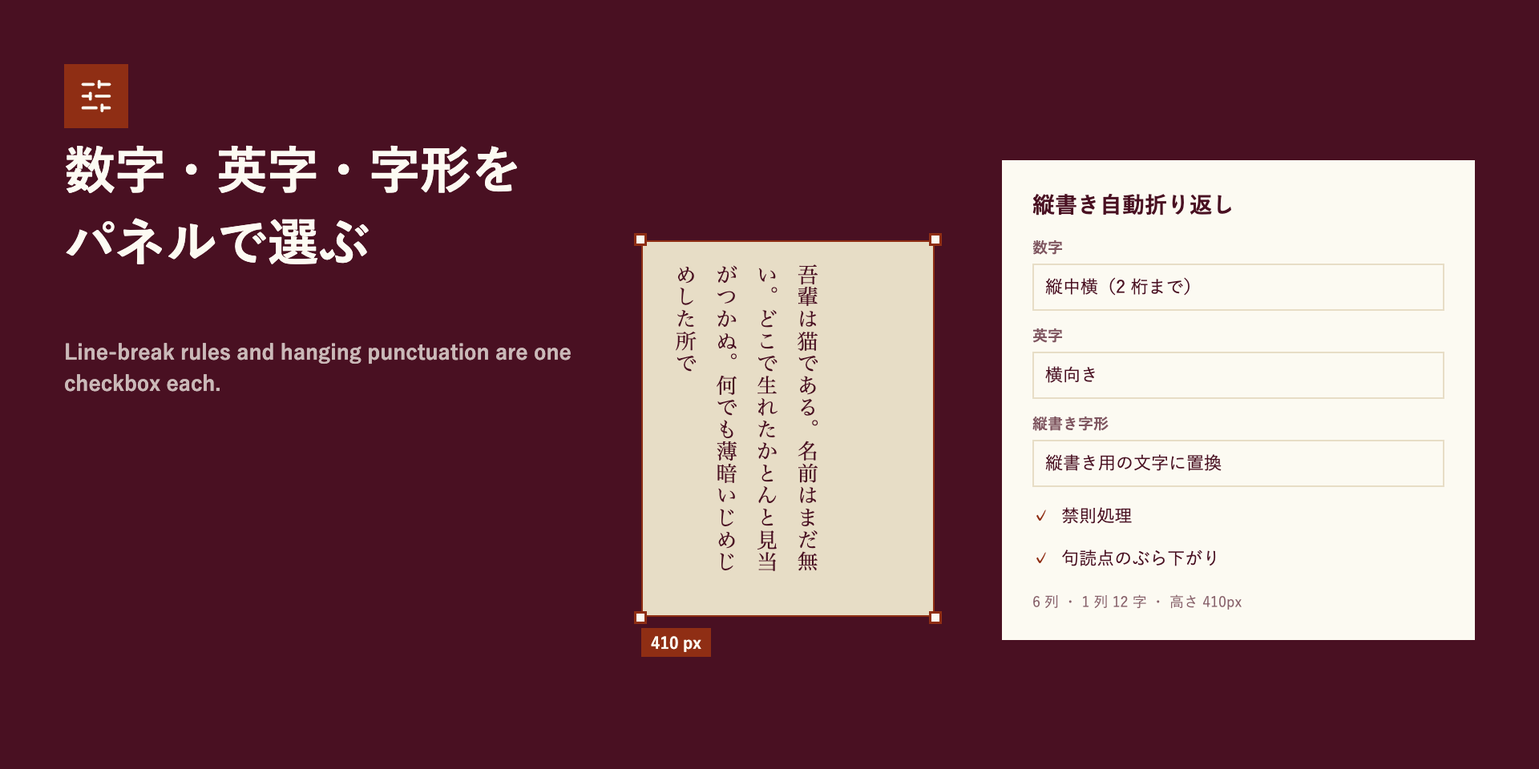
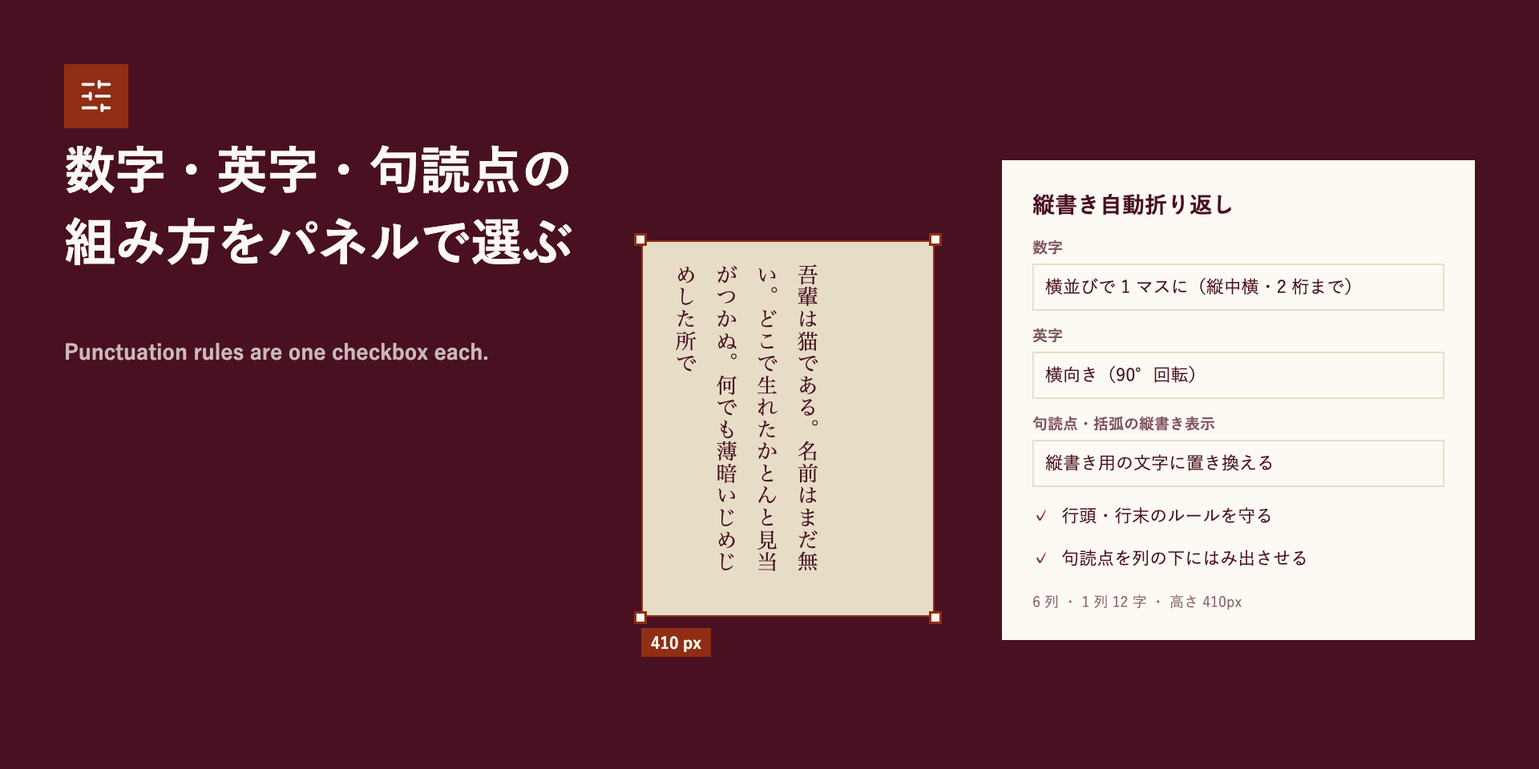
Plain-language wording in the panel, docs and carousel; bilingual error messages

diff --git a/src/ui/main.ts b/src/ui/main.ts
@@ -1,6 +1,7 @@
 // Plugin panel. Plain DOM, no framework.
 
 import type { FormsMode, LatinMode, NumeralMode, Settings } from '../core/types.ts';
+import { pick } from '../messages.ts';
 import type { ApplyPatch, BlockInfo, SelectionState, ToCode, ToUI } from '../protocol.ts';
 
 // Panel language: the saved choice wins, otherwise follow the app language.
@@ -9,7 +10,7 @@ let ja = (navigator.language || 'en').toLowerCase().startsWith('ja');
 const T = {
   title: ['縦書き自動折り返し', 'Vertical Japanese Text'],
   auto: ['自動で折り返す', 'Auto reflow'],
-  watching: ['監視中のブロック', 'Blocks watched'],
+  watching: ['追従中のブロック', 'Blocks in sync'],
   lead: [
     '縦書きブロックの高さを動かすと、列が自動で折り返されます。',
     'Drag the height of a vertical block and its columns reflow.',
@@ -31,13 +32,29 @@ const T = {
   createBtn: ['作成', 'Create'],
   source: ['本文（段落は空行で区切る）', 'Text (separate paragraphs with a blank line)'],
   size: ['文字サイズ', 'Font size'],
-  advance: ['字送り', 'Character pitch'],
-  pitch: ['行送り（列の幅）', 'Column pitch'],
+  advance: ['字送り（文字の間隔）', 'Character pitch'],
+  advanceTip: [
+    '字送り：1 字から次の字までの距離（文字サイズを含む）。',
+    'Distance from one character to the next (includes the character size).',
+  ],
+  pitch: ['行送り（列の間隔）', 'Column pitch'],
+  pitchTip: [
+    '行送り：1 列から次の列までの距離。',
+    'Distance from one column to the next.',
+  ],
   numerals: ['数字', 'Numerals'],
-  latin: ['英字', 'Latin'],
-  forms: ['縦書き字形', 'Vertical forms'],
-  kinsoku: ['禁則処理', 'Line-break rules (kinsoku)'],
-  hang: ['句読点のぶら下がり', 'Hang 、。 past the limit'],
+  latin: ['英字', 'Latin letters (A–Z)'],
+  forms: ['句読点・括弧の縦書き表示', 'Punctuation and brackets'],
+  kinsoku: ['行頭・行末のルールを守る', 'Keep punctuation off column edges'],
+  kinsokuTip: [
+    '禁則処理：、。や閉じ括弧を列の先頭に、開き括弧を列の末尾に置かない。',
+    'Keeps 、。 and closing brackets off the start of a column, and opening brackets off the end.',
+  ],
+  hang: ['句読点を列の下にはみ出させる', 'Let 、。 hang past the column end'],
+  hangTip: [
+    'ぶら下がり：列の末尾にくる、。を、列の下の余白に出して、字詰めを保つ。',
+    'Hanging punctuation: a 、。 at the end of a column goes into the margin below it.',
+  ],
   stats: ['{c} 列 ・ 1 列 {n} 字 ・ 高さ {h}px', '{c} columns · {n} per column · height {h}px'],
   unblock: ['ブロックを解除（普通のレイヤーに戻す）', 'Release block (back to plain layers)'],
   fontNote: ['フォント', 'Font'],
@@ -52,20 +69,20 @@ const T = {
 } as const;
 
 const NUMERALS: [NumeralMode, string, string][] = [
-  ['tcy', '縦中横（2 桁まで）', 'Horizontal in vertical (up to 2 digits)'],
-  ['sideways', '横向き', 'Sideways'],
-  ['kanji', '漢数字（二〇二四）', 'Kanji, digit by digit (二〇二四)'],
-  ['kanji-place', '漢数字（二千二十四）', 'Kanji, place values (二千二十四)'],
-  ['upright', '縦に積む', 'Stacked upright'],
+  ['tcy', '横並びで 1 マスに（縦中横・2 桁まで）', 'Side by side in one cell (up to 2 digits)'],
+  ['sideways', '横向き（90°回転）', 'Rotated 90°'],
+  ['kanji', '漢数字（二〇二四）', 'Kanji numerals (二〇二四)'],
+  ['kanji-place', '漢数字（二千二十四）', 'Kanji numerals with place values (二千二十四)'],
+  ['upright', '1 字ずつ縦に積む', 'One digit per line'],
 ];
 const LATIN: [LatinMode, string, string][] = [
-  ['sideways', '横向き', 'Sideways'],
-  ['tcy', '縦中横（2 字まで）', 'Horizontal in vertical (up to 2 letters)'],
-  ['upright', '縦に積む', 'Stacked upright'],
+  ['sideways', '横向き（90°回転）', 'Rotated 90°'],
+  ['tcy', '横並びで 1 マスに（縦中横・2 字まで）', 'Side by side in one cell (up to 2 letters)'],
+  ['upright', '1 字ずつ縦に積む', 'One letter per line'],
 ];
 const FORMS: [FormsMode, string, string][] = [
-  ['unicode', '縦書き用の文字に置換', 'Unicode vertical forms'],
-  ['rotate', '回転（どのフォントでも）', 'Rotated cells (any font)'],
+  ['unicode', '縦書き用の文字に置き換える', 'Use vertical-form characters'],
+  ['rotate', '回転で代用（どのフォントでも）', 'Rotate instead (works with any font)'],
   ['none', 'そのまま', 'As typed'],
 ];
 
@@ -129,16 +146,16 @@ function blockCard(i: BlockInfo): string {
       <p class="stats" id="stats"></p>
       <div class="row">
         <div class="field"><label class="t">${t('size')}</label><input type="number" id="fontSize" min="1" step="0.5" value="${num2(i.fontSize)}"></div>
-        <div class="field"><label class="t">${t('advance')}</label><input type="number" id="advance" min="1" step="0.1" value="${num2(i.advance)}"></div>
-        <div class="field"><label class="t">${t('pitch')}</label><input type="number" id="pitch" min="1" step="0.1" value="${num2(i.pitch)}"></div>
+        <div class="field"><label class="t" title="${esc(t('advanceTip'))}">${t('advance')}</label><input type="number" id="advance" min="1" step="0.1" value="${num2(i.advance)}"></div>
+        <div class="field"><label class="t" title="${esc(t('pitchTip'))}">${t('pitch')}</label><input type="number" id="pitch" min="1" step="0.1" value="${num2(i.pitch)}"></div>
         <div class="field"><label class="t">${t('fontNote')}</label><input type="text" disabled value="${esc(i.fontFamily)} ${esc(i.fontStyle)}" style="width:100%;font:inherit;padding:5px 6px;border:0;background:var(--figma-color-bg-secondary,#f5f5f5);color:inherit;border-radius:4px"></div>
         <div class="field full"><label class="t">${t('numerals')}</label><select id="numerals">${options(NUMERALS, s.numerals)}</select></div>
         <div class="field full"><label class="t">${t('latin')}</label><select id="latin">${options(LATIN, s.latin)}</select></div>
         <div class="field full"><label class="t">${t('forms')}</label><select id="forms">${options(FORMS, s.forms)}</select></div>
       </div>
       <div class="checks">
-        <label><input type="checkbox" id="kinsoku" ${s.kinsoku ? 'checked' : ''}/> ${t('kinsoku')}</label>
-        <label><input type="checkbox" id="hang" ${s.hang ? 'checked' : ''}/> ${t('hang')}</label>
+        <label title="${esc(t('kinsokuTip'))}"><input type="checkbox" id="kinsoku" ${s.kinsoku ? 'checked' : ''}/> ${t('kinsoku')}</label>
+        <label title="${esc(t('hangTip'))}"><input type="checkbox" id="hang" ${s.hang ? 'checked' : ''}/> ${t('hang')}</label>
       </div>
       <p class="hint">${t('hintBlock')}</p>
     </div>
@@ -223,7 +240,7 @@ function bodyFor(s: SelectionState): string {
         </div>
         ${createCard()}`;
     case 'unsupported':
-      return `<div class="card"><p style="margin:0">${esc(s.reason)}</p></div>${createCard()}`;
+      return `<div class="card"><p style="margin:0">${esc(pick(s.reason, ja))}</p></div>${createCard()}`;
     default:
       return `<div class="card"><p style="margin:0">${t('none')}</p></div>${createCard()}`;
   }
@@ -259,7 +276,7 @@ let toastTimer: number | undefined;
 function toast(level: 'info' | 'error', message: string): void {
   const el = document.getElementById('toast');
   if (!el) return;
-  el.innerHTML = `<div class="toast ${level}">${esc(message)}</div>`;
+  el.innerHTML = `<div class="toast ${level}">${esc(pick(message, ja))}</div>`;
   window.clearTimeout(toastTimer);
   toastTimer = window.setTimeout(() => (el.innerHTML = ''), 4000);
 }

diff --git a/src/figma/convert.ts b/src/figma/convert.ts
@@ -1,6 +1,7 @@
 // Turn existing nodes into blocks, create new blocks, and describe the selection.
 
 import { capacityFor } from '../core/typeset.ts';
+import { bi } from '../messages.ts';
 import { fromVerticalForm } from '../core/vertical-forms.ts';
 import type { BlockInfo, SelectionState } from '../protocol.ts';
 import {
@@ -108,7 +109,12 @@ export function adoptsAsFrame(node: SceneNode): node is FrameNode {
 export async function convertNode(store: Store, node: SceneNode): Promise<FrameNode> {
   if (node.type === 'TEXT') return convertText(store, node);
   if (adoptsAsFrame(node)) return convertFrame(store, node);
-  throw new Error('縦書きブロックにできるのは、テキスト、または横向き Auto Layout のフレームです。');
+  throw new Error(
+    bi(
+      '縦書きブロックにできるのは、テキスト、または横向き Auto Layout のフレームです。',
+      'Only a text layer or a horizontal auto-layout frame can become a vertical block.',
+    ),
+  );
 }
 
 async function convertText(store: Store, t: TextNode): Promise<FrameNode> {
@@ -123,7 +129,7 @@ async function convertText(store: Store, t: TextNode): Promise<FrameNode> {
     pitch: lh ?? base.pitch,
   });
   const parent = t.parent as (BaseNode & ChildrenMixin) | null;
-  if (!parent) throw new Error('親が見つかりません。');
+  if (!parent) throw new Error(bi('親が見つかりません。', 'The parent layer was not found.'));
   const index = parent.children.indexOf(t);
   const frame = figma.createFrame();
   frame.name = `縦書き: ${t.characters.replace(/\s+/g, ' ').slice(0, 12)}`;
@@ -171,7 +177,7 @@ export async function createBlock(
   const base = defaultConfig(style?.fontSize ? { fontSize: style.fontSize } : {});
   const cfg = await loadAvailable({ ...base, ...(style ?? {}), paragraphs });
   const frame = figma.createFrame();
-  frame.name = '縦書き';
+  frame.name = 'Vertical text（縦書き）';
   frame.fills = [];
   frame.clipsContent = false;
   figma.currentPage.appendChild(frame);
@@ -212,7 +218,7 @@ export function blockInfo(store: Store, frame: FrameNode): BlockInfo | null {
 export function describeSelection(store: Store): SelectionState {
   const sel = figma.currentPage.selection;
   if (sel.length === 0) return { kind: 'none' };
-  if (sel.length > 1) return { kind: 'unsupported', reason: '1 つだけ選んでください。' };
+  if (sel.length > 1) return { kind: 'unsupported', reason: bi('1 つだけ選んでください。', 'Select exactly one layer.') };
   const node = sel[0];
   const block = findBlock(store, node);
   if (block) {
@@ -223,6 +229,9 @@ export function describeSelection(store: Store): SelectionState {
   if (adoptsAsFrame(node)) return { kind: 'convertible', what: 'frame', name: node.name };
   return {
     kind: 'unsupported',
-    reason: 'テキスト、または横向き Auto Layout のフレームを選んでください。',
+    reason: bi(
+      'テキスト、または横向き Auto Layout のフレームを選んでください。',
+      'Select a text layer or a horizontal auto-layout frame.',
+    ),
   };
 }

diff --git a/assets/carousel3.html b/assets/carousel3.html
@@ -7,5 +7,5 @@
 <div class="label"><svg width="44" height="44" viewBox="0 0 24 24" fill="none" stroke="#FCFAF2" stroke-width="2" stroke-linecap="round" stroke-linejoin="round"><line x1="4" x2="20" y1="9" y2="9"/><line x1="4" x2="20" y1="15" y2="15"/><line x1="10" x2="8" y1="3" y2="21"/><line x1="16" x2="14" y1="3" y2="21"/></svg></div>
 <div class="title">Choose how<br>numerals are set</div>
 <div class="sub">同じ文を、4 通りの組み方で。</div>
-<div class="card" style="left:800px;top:230px;width:150px;height:470px"><div class="t" style="height:410px;font-size:30px;"><span style="text-orientation:upright">2024</span>年<span style="text-combine-upright:all">10</span>月、<span style="text-combine-upright:all">12</span>日</div><span class="cap" style="color:#FCFAF2">Horizontal in vertical</span></div><div class="card" style="left:1080px;top:230px;width:150px;height:470px"><div class="t" style="height:410px;font-size:30px;">2024年10月、12日</div><span class="cap" style="color:#FCFAF2">Sideways</span></div><div class="card" style="left:1360px;top:230px;width:150px;height:470px"><div class="t" style="height:410px;font-size:30px;">二〇二四年十月、十二日</div><span class="cap" style="color:#FCFAF2">Kanji</span></div><div class="card" style="left:1640px;top:230px;width:150px;height:470px"><div class="t" style="height:410px;font-size:30px;text-orientation:upright;">2024年10月、12日</div><span class="cap" style="color:#FCFAF2">Stacked upright</span></div>
+<div class="card" style="left:800px;top:230px;width:150px;height:470px"><div class="t" style="height:410px;font-size:30px;"><span style="text-orientation:upright">2024</span>年<span style="text-combine-upright:all">10</span>月、<span style="text-combine-upright:all">12</span>日</div><span class="cap" style="color:#FCFAF2">Side by side in one cell</span></div><div class="card" style="left:1080px;top:230px;width:150px;height:470px"><div class="t" style="height:410px;font-size:30px;">2024年10月、12日</div><span class="cap" style="color:#FCFAF2">Rotated 90°</span></div><div class="card" style="left:1360px;top:230px;width:150px;height:470px"><div class="t" style="height:410px;font-size:30px;">二〇二四年十月、十二日</div><span class="cap" style="color:#FCFAF2">Kanji numerals</span></div><div class="card" style="left:1640px;top:230px;width:150px;height:470px"><div class="t" style="height:410px;font-size:30px;text-orientation:upright;">2024年10月、12日</div><span class="cap" style="color:#FCFAF2">One digit per line</span></div>
 </body></html>

diff --git a/assets/carousel3-ja.html b/assets/carousel3-ja.html
@@ -7,5 +7,5 @@
 <div class="label"><svg width="44" height="44" viewBox="0 0 24 24" fill="none" stroke="#FCFAF2" stroke-width="2" stroke-linecap="round" stroke-linejoin="round"><line x1="4" x2="20" y1="9" y2="9"/><line x1="4" x2="20" y1="15" y2="15"/><line x1="10" x2="8" y1="3" y2="21"/><line x1="16" x2="14" y1="3" y2="21"/></svg></div>
 <div class="title">数字の組み方を<br>選べる</div>
 <div class="sub">The same sentence, four ways.</div>
-<div class="card" style="left:800px;top:230px;width:150px;height:470px"><div class="t" style="height:410px;font-size:30px;"><span style="text-orientation:upright">2024</span>年<span style="text-combine-upright:all">10</span>月、<span style="text-combine-upright:all">12</span>日</div><span class="cap" style="color:#FCFAF2">縦中横</span></div><div class="card" style="left:1080px;top:230px;width:150px;height:470px"><div class="t" style="height:410px;font-size:30px;">2024年10月、12日</div><span class="cap" style="color:#FCFAF2">横向き</span></div><div class="card" style="left:1360px;top:230px;width:150px;height:470px"><div class="t" style="height:410px;font-size:30px;">二〇二四年十月、十二日</div><span class="cap" style="color:#FCFAF2">漢数字</span></div><div class="card" style="left:1640px;top:230px;width:150px;height:470px"><div class="t" style="height:410px;font-size:30px;text-orientation:upright;">2024年10月、12日</div><span class="cap" style="color:#FCFAF2">縦に積む</span></div>
+<div class="card" style="left:800px;top:230px;width:150px;height:470px"><div class="t" style="height:410px;font-size:30px;"><span style="text-orientation:upright">2024</span>年<span style="text-combine-upright:all">10</span>月、<span style="text-combine-upright:all">12</span>日</div><span class="cap" style="color:#FCFAF2">横並びで 1 マスに</span></div><div class="card" style="left:1080px;top:230px;width:150px;height:470px"><div class="t" style="height:410px;font-size:30px;">2024年10月、12日</div><span class="cap" style="color:#FCFAF2">横向き（90°回転）</span></div><div class="card" style="left:1360px;top:230px;width:150px;height:470px"><div class="t" style="height:410px;font-size:30px;">二〇二四年十月、十二日</div><span class="cap" style="color:#FCFAF2">漢数字</span></div><div class="card" style="left:1640px;top:230px;width:150px;height:470px"><div class="t" style="height:410px;font-size:30px;text-orientation:upright;">2024年10月、12日</div><span class="cap" style="color:#FCFAF2">1 字ずつ縦に積む</span></div>
 </body></html>

diff --git a/assets/carousel2-ja.html b/assets/carousel2-ja.html
@@ -10,12 +10,12 @@
 .panel .st { margin-top: 24px; font-size: 18px; opacity: .65; font-weight: 400; }</style></head>
 <body>
 <div class="label"><svg width="44" height="44" viewBox="0 0 24 24" fill="none" stroke="#FCFAF2" stroke-width="2" stroke-linecap="round" stroke-linejoin="round"><line x1="21" x2="14" y1="4" y2="4"/><line x1="10" x2="3" y1="4" y2="4"/><line x1="21" x2="12" y1="12" y2="12"/><line x1="8" x2="3" y1="12" y2="12"/><line x1="21" x2="16" y1="20" y2="20"/><line x1="12" x2="3" y1="20" y2="20"/><line x1="14" x2="14" y1="2" y2="6"/><line x1="8" x2="8" y1="10" y2="14"/><line x1="16" x2="16" y1="18" y2="22"/></svg></div>
-<div class="title">数字・英字・字形を<br>パネルで選ぶ</div>
-<div class="sub">Line-break rules and hanging punctuation are one checkbox each.</div>
+<div class="title">数字・英字・句読点の<br>組み方をパネルで選ぶ</div>
+<div class="sub">Punctuation rules are one checkbox each.</div>
 <div class="card" style="left:800px;top:300px;width:366px;height:470px"><div class="t" style="height:410px">吾輩は猫である。名前はまだ無い。どこで生れたかとんと見当がつかぬ。何でも薄暗いじめじめした所で</div><i class="h a"></i><i class="h b"></i><i class="h c"></i><i class="h d"></i><span class="chip">410 px</span></div><div class="panel"><div class="pt">縦書き自動折り返し</div>
-<div class="lab">数字</div><div class="sel">縦中横（2 桁まで）</div>
-<div class="lab">英字</div><div class="sel">横向き</div>
-<div class="lab">縦書き字形</div><div class="sel">縦書き用の文字に置換</div>
-<div class="chk"><b>✓</b> 禁則処理</div><div class="chk"><b>✓</b> 句読点のぶら下がり</div>
+<div class="lab">数字</div><div class="sel">横並びで 1 マスに（縦中横・2 桁まで）</div>
+<div class="lab">英字</div><div class="sel">横向き（90°回転）</div>
+<div class="lab">句読点・括弧の縦書き表示</div><div class="sel">縦書き用の文字に置き換える</div>
+<div class="chk"><b>✓</b> 行頭・行末のルールを守る</div><div class="chk"><b>✓</b> 句読点を列の下にはみ出させる</div>
 <div class="st">6 列 ・ 1 列 12 字 ・ 高さ 410px</div></div>
 </body></html>

diff --git a/assets/carousel2.html b/assets/carousel2.html
@@ -10,12 +10,12 @@
 .panel .st { margin-top: 24px; font-size: 18px; opacity: .65; font-weight: 400; }</style></head>
 <body>
 <div class="label"><svg width="44" height="44" viewBox="0 0 24 24" fill="none" stroke="#FCFAF2" stroke-width="2" stroke-linecap="round" stroke-linejoin="round"><line x1="21" x2="14" y1="4" y2="4"/><line x1="10" x2="3" y1="4" y2="4"/><line x1="21" x2="12" y1="12" y2="12"/><line x1="8" x2="3" y1="12" y2="12"/><line x1="21" x2="16" y1="20" y2="20"/><line x1="12" x2="3" y1="20" y2="20"/><line x1="14" x2="14" y1="2" y2="6"/><line x1="8" x2="8" y1="10" y2="14"/><line x1="16" x2="16" y1="18" y2="22"/></svg></div>
-<div class="title">Set numerals, Latin<br>and vertical forms</div>
-<div class="sub">禁則処理と句読点のぶら下がりも、チェックひとつです。</div>
+<div class="title">Set digits, letters<br>and punctuation</div>
+<div class="sub">句読点のルールも、チェックひとつです。</div>
 <div class="card" style="left:800px;top:300px;width:366px;height:470px"><div class="t" style="height:410px">吾輩は猫である。名前はまだ無い。どこで生れたかとんと見当がつかぬ。何でも薄暗いじめじめした所で</div><i class="h a"></i><i class="h b"></i><i class="h c"></i><i class="h d"></i><span class="chip">410 px</span></div><div class="panel"><div class="pt">Vertical Japanese Text</div>
-<div class="lab">Numerals</div><div class="sel">Horizontal in vertical (up to 2 digits)</div>
-<div class="lab">Latin</div><div class="sel">Sideways</div>
-<div class="lab">Vertical forms</div><div class="sel">Unicode vertical forms</div>
-<div class="chk"><b>✓</b> Line-break rules (kinsoku)</div><div class="chk"><b>✓</b> Hang 、。 past the limit</div>
+<div class="lab">Numerals</div><div class="sel">Side by side in one cell (up to 2 digits)</div>
+<div class="lab">Latin</div><div class="sel">Rotated 90°</div>
+<div class="lab">Punctuation and brackets</div><div class="sel">Use vertical-form characters</div>
+<div class="chk"><b>✓</b> Keep punctuation off column edges</div><div class="chk"><b>✓</b> Let 、。 hang past the column end</div>
 <div class="st">6 columns · 12 per column · height 410px</div></div>
 </body></html>

diff --git a/src/figma/watch.ts b/src/figma/watch.ts
@@ -4,6 +4,7 @@
 // reaction is idempotent: a re-render is skipped when the source, settings and
 // frame height produce the same signature as the last render.
 
+import { bi } from '../messages.ts';
 import { reconcile, type CurrentColumn, type CurrentNode, type NodeKind } from '../core/model.ts';
 import { KEY_CONFIG, findBlock, readConfig, readModel, writeConfig, type BlockConfig } from './block.ts';
 import { runStyleOf } from './convert.ts';
@@ -155,7 +156,12 @@ export class Watcher {
       if (model) {
         const paragraphs = reconcile(model, readCurrent(frame, model));
         if (paragraphs === null) {
-          this.onError('文章が長いため、キャンバス上の直接編集は反映できません。パネルで編集してください。');
+          this.onError(
+            bi(
+              '文章が長いため、キャンバス上の直接編集は反映できません。パネルで編集してください。',
+              'The text is too long to read back from the canvas. Edit it in the panel instead.',
+            ),
+          );
         } else if (JSON.stringify(paragraphs) !== JSON.stringify(cfg.paragraphs)) {
           next = { ...next, paragraphs };
           changed = true;

diff --git a/src/code.ts b/src/code.ts
@@ -5,6 +5,7 @@ import { convertNode, createBlock, describeSelection, runStyleOf, unblock } from
 import { renderBlock } from './figma/render.ts';
 import { pluginStore as store } from './figma/store.ts';
 import { Watcher } from './figma/watch.ts';
+import { bi } from './messages.ts';
 import type { ApplyPatch, ToCode, ToUI } from './protocol.ts';
 
 declare const __html__: string;
@@ -65,7 +66,7 @@ figma.ui.onmessage = async (msg: ToCode) => {
         break;
       case 'convert': {
         const sel = figma.currentPage.selection;
-        if (sel.length !== 1) throw new Error('1 つだけ選んでください。');
+        if (sel.length !== 1) throw new Error(bi('1 つだけ選んでください。', 'Select exactly one layer.'));
         const frame = await convertNode(store, sel[0]);
         figma.currentPage.selection = [frame];
         sendSelection();

diff --git a/assets/_carousel.css b/assets/_carousel.css
@@ -15,4 +15,4 @@ body { position: relative; overflow: hidden; background: var(--ink); color: var(
 .h { position: absolute; width: 16px; height: 16px; background: var(--paper); border: 3px solid var(--label); }
 .h.a { left: -9px; top: -9px; } .h.b { right: -9px; top: -9px; } .h.c { left: -9px; bottom: -9px; } .h.d { right: -9px; bottom: -9px; }
 .chip { position: absolute; left: 0; top: 100%; margin-top: 14px; background: var(--label); color: var(--paper); font-size: 20px; line-height: 1; padding: 8px 12px; white-space: nowrap; }
-.cap { position: absolute; top: 100%; margin-top: 14px; left: 0; font-size: 24px; line-height: 1.3; white-space: nowrap; }
+.cap { position: absolute; top: 100%; margin-top: 14px; left: 0; font-size: 24px; line-height: 1.3; width: 240px; }

diff --git a/src/figma/render.ts b/src/figma/render.ts
@@ -16,6 +16,7 @@ import {
   type NodePlan,
 } from '../core/model.ts';
 import { capacityFor, typeset } from '../core/typeset.ts';
+import { bi } from '../messages.ts';
 import { KEY_MODEL, KEY_SIG, readConfig, readModel, type BlockConfig } from './block.ts';
 import type { Store } from './store.ts';
 
@@ -234,7 +235,7 @@ export async function renderBlock(
   opts: { force?: boolean } = {},
 ): Promise<RenderResult> {
   const cfg = readConfig(store, frame);
-  if (!cfg) throw new Error('not a vertical text block');
+  if (!cfg) throw new Error(bi('縦書きブロックではありません。', 'This is not a vertical text block.'));
   await figma.loadFontAsync({ family: cfg.fontFamily, style: cfg.fontStyle });
 
   const right = frame.x + frame.width;

diff --git a/src/messages.ts b/src/messages.ts
@@ -1,0 +1,11 @@
+// Messages shown in the panel are written in both languages and picked by the panel.
+// The plugin code does not know the panel language, so a message carries both: "ja\u0001en".
+
+const SEP = '\u0001';
+
+export const bi = (ja: string, en: string): string => `${ja}${SEP}${en}`;
+
+export function pick(message: string, ja: boolean): string {
+  const [j, e] = message.split(SEP);
+  return ja ? j : (e ?? j);
+}

diff --git a/README.md b/README.md
@@ -24,9 +24,9 @@ Figma has no vertical writing. You can fake it with a horizontal auto-layout fra
 - 列は右から左に読みますが、Auto Layout には右から左がないため、列は右端から順に、レイヤーパネルの上から並びます（1 列目 = 右端 = 一番上のレイヤー）。<br>
   Columns read right to left, but auto layout has no right-to-left mode, so the Layers panel lists them from the top in reading order (the first column is the rightmost one, at the top of the list).
 - 縦書き字形は、OpenType の `vert` を API から設定できないため、Unicode の縦書き用文字（︑︒﹁﹂︱ など）への置換で出します。回転セルに切り替えると、フォントに依存しません。<br>
-  The OpenType `vert` feature cannot be set through the API, so vertical forms come from Unicode vertical-form characters (︑︒﹁﹂︱ and so on). The rotated-cell mode is font-independent.
+  The OpenType `vert` feature cannot be set through the API, so punctuation and brackets are swapped for their vertical-form characters (︑︒﹁﹂︱ and so on). The rotate option works with any font.
 - 数字・英字の縦中横・横向きは、テキストの一部だけ回転できないため、別ノード（セル）になります。<br>
-  Horizontal-in-vertical (tate-chu-yoko) and sideways runs are separate nodes (cells), because part of a text layer cannot be rotated.
+  Digits or letters set side by side in one cell, and rotated ones, are separate layers, because part of a text layer cannot be rotated.
 - ルビは扱いません。<br>
   Ruby (furigana) is not supported.
 
@@ -34,10 +34,10 @@ Figma has no vertical writing. You can fake it with a horizontal auto-layout fra
 
 | 設定 / Setting | 選べるもの / Options |
 |---|---|
-| 数字 / Numerals | 縦中横（2 桁まで）· 横向き · 漢数字（二〇二四）· 漢数字（二千二十四）· 縦に積む |
-| 英字 / Latin | 横向き · 縦中横（2 字まで）· 縦に積む |
-| 縦書き字形 / Vertical forms | Unicode 置換 · 回転セル · そのまま |
-| 禁則処理 / Line-break rules | 行頭禁則・行末禁則・分割禁止（……／——）。追い出しで処理 |
+| 数字 / Numerals | 横並びで 1 マスに（縦中横・2 桁まで）· 横向き（90°回転）· 漢数字（二〇二四）· 漢数字（二千二十四）· 1 字ずつ縦に積む<br>Side by side in one cell · Rotated 90° · Kanji numerals · Kanji numerals with place values · One digit per line |
+| 英字 / Latin letters | 横向き（90°回転）· 横並びで 1 マスに（2 字まで）· 1 字ずつ縦に積む<br>Rotated 90° · Side by side in one cell · One letter per line |
+| 句読点・括弧の縦書き表示 / Punctuation and brackets | 縦書き用の文字に置き換える · 回転で代用 · そのまま<br>Use vertical-form characters · Rotate instead · As typed |
+| 行頭・行末のルール / Keep punctuation off column edges | 禁則処理。、。と閉じ括弧を列の先頭に、開き括弧を列の末尾に置かない。……と——は分けない |
 | ぶら下がり / Hanging | 句読点 `、。` を列の上限から 1 マスまで出す |
 
 ## 開発 / Development
